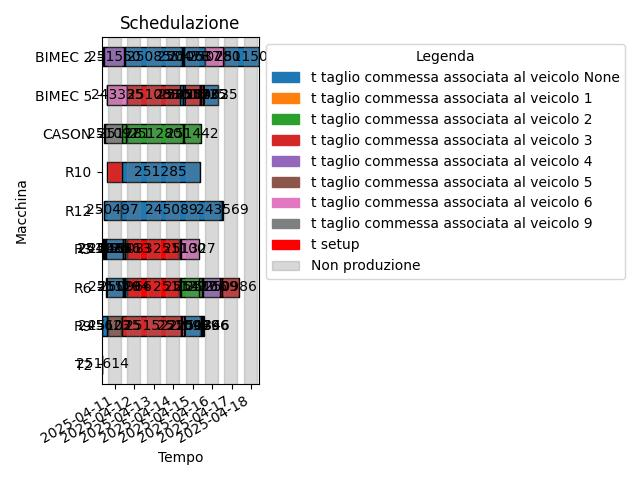
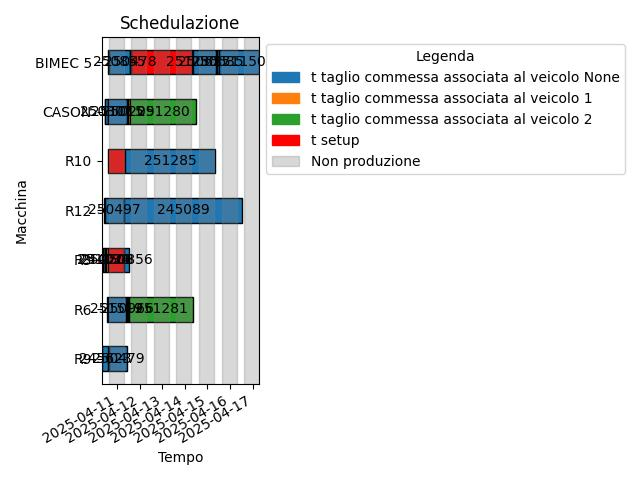
Cambiamenti al check e al filtro commesse

Changed region(s): [[0.0625, 0.0625, 0.9375, 0.9375]]

diff --git a/PS-VRP/solver.py b/PS-VRP/solver.py
@@ -81,9 +81,11 @@ def filtro_commesse(lista_commesse:list,lista_veicoli):
         if 0 in commessa.zona_cliente: #filtro separatamente le commesse con zona "zero" (ovvero senza zona indicata)
             commesse_da_schedulare.append(commessa)
     for commessa in commesse_da_tagliare:
+        max_data_partenza = max(v.data_partenza for v in lista_veicoli_disponibili if v.data_partenza is not None)
+        print(max_data_partenza)
         for veicolo in lista_veicoli_disponibili:
             #if veicolo.zone_coperte in commessa.zona_cliente and commessa.due_date>=veicolo.data_partenza:#commessa.due_date<=veicolo.data_partenza:
-            if veicolo.zone_coperte in commessa.zona_cliente and commessa.release_date<veicolo.data_partenza:#commessa.due_date<=veicolo.data_partenza:
+            if veicolo.zone_coperte in commessa.zona_cliente and commessa.release_date<veicolo.data_partenza and commessa.due_date<=max_data_partenza:#commessa.due_date<=veicolo.data_partenza:
                 #if commessa not in commesse_da_schedulare:
                 commesse_da_schedulare.append(commessa)
                 break
@@ -271,7 +273,6 @@ def move_inter_macchina(macchina1:Macchina,macchina2:Macchina,partenze:dict,cont
                             schedula2.append(commessa)
                         else:
                             schedula2.insert(posizione, commessa)
-                        #schedula2.insert(posizione,commessa)
                         check1=True
                         for k in range(1,len(schedula1)): #vado a ricostruire la soluzione e la schedula
                             tempo_setup_commessa=macchina1.calcolo_tempi_setup(schedula1[k-1],schedula1[k])
@@ -284,7 +285,7 @@ def move_inter_macchina(macchina1:Macchina,macchina2:Macchina,partenze:dict,cont
                                 check1=False
                             ultima_lavorazione1=ultima_lavorazione1+tempo_setup_commessa+tempo_processamento_commessa
                             check2 = True
-                            #check3 = True
+                            check3=True
                             for k in range(1, len(schedula2)):  # vado a ricostruire la soluzione e la schedula
                                 tempo_setup_commessa = macchina2.calcolo_tempi_setup(schedula2[k - 1], schedula2[k])
                                 tempo_processamento_commessa = schedula2[k].metri_da_tagliare / macchina2.velocita_taglio_media
@@ -299,12 +300,12 @@ def move_inter_macchina(macchina1:Macchina,macchina2:Macchina,partenze:dict,cont
                                 ):
                                     check2 = False
 
-                                # Check3: rispetto due_date per zona_cliente == 0
-                                #if schedula2[k].zona_cliente == 0 and fine_lavorazione > schedula2[k].due_date:
-                                #    check3 = False
+                                #Check3: rispetto due_date per zona_cliente == 0
+                                if 0 in schedula2[k].zona_cliente and commessa.priorita_cliente >=1: #and fine_lavorazione > schedula2[k].due_date
+                                    check3 = False
 
                                 ultima_lavorazione2 = ultima_lavorazione2 + tempo_setup_commessa + tempo_processamento_commessa
-                        if check1 and check2: #and check3 #se va tutto bene
+                        if check1 and check2 and check3: #and check3 #se va tutto bene
                             improved=True #miglioramento trovato
                             f_best+=delta #aggiorno funzione obiettivo
                             #print(f'metto {commessa.id_commessa} dalla posizione {i} su macchina {macchina1.nome_macchina} in posizione {posizione} su macchina {macchina2.nome_macchina} con delta={delta}')
@@ -463,8 +464,8 @@ def swap_no_delta(lista_macchine: list, lista_veicoli:list, f_obj,schedulazione:
                 for i in range(1,len(schedula)-1):
                     for j in range(i+1,len(schedula)):
                         ultima_lavorazione = macchina.ultima_lavorazione #imposto la variabile al tempo in cui la macchina diventa disponibile per la prima volta
-                        veicolo_i = schedula[i].veicolo #prendo il veicolo associato alla commessa i
-                        veicolo_j = schedula[j].veicolo #prendo il veicolo associato alla commessa j
+                        #veicolo_i = schedula[i].veicolo #prendo il veicolo associato alla commessa i
+                        #veicolo_j = schedula[j].veicolo #prendo il veicolo associato alla commessa j
                         #effettuo il calcolo del delta
                         """
                         if i+1<j and j+1<len(schedula): #commesse non consecutive con j non in ultima posizione
